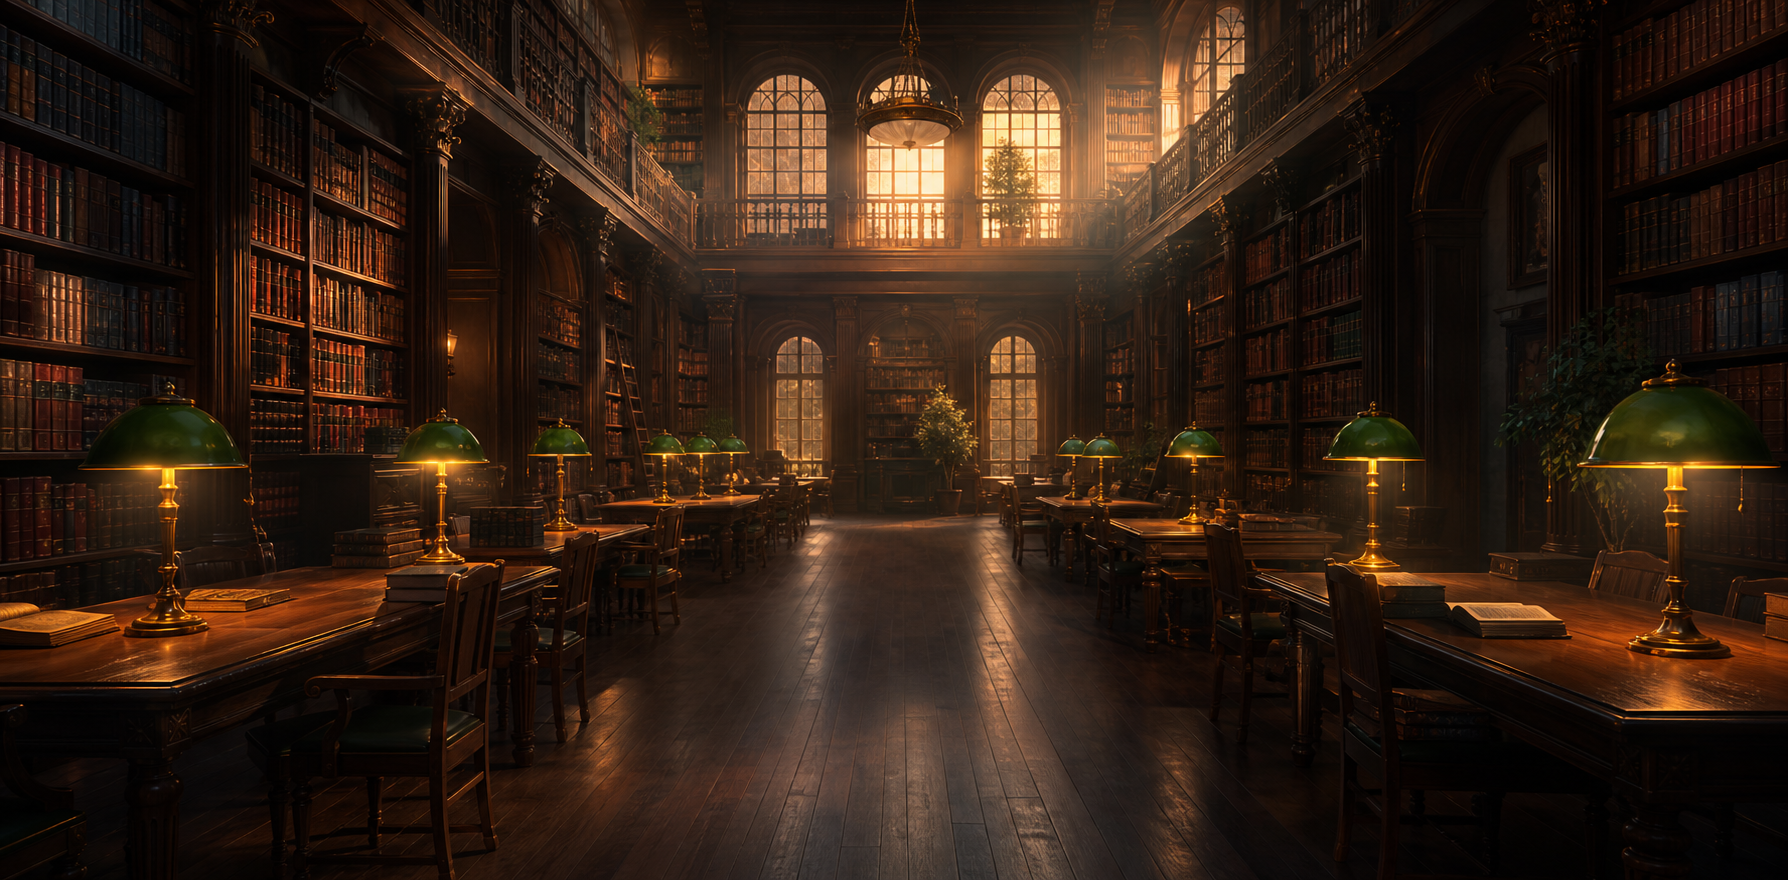
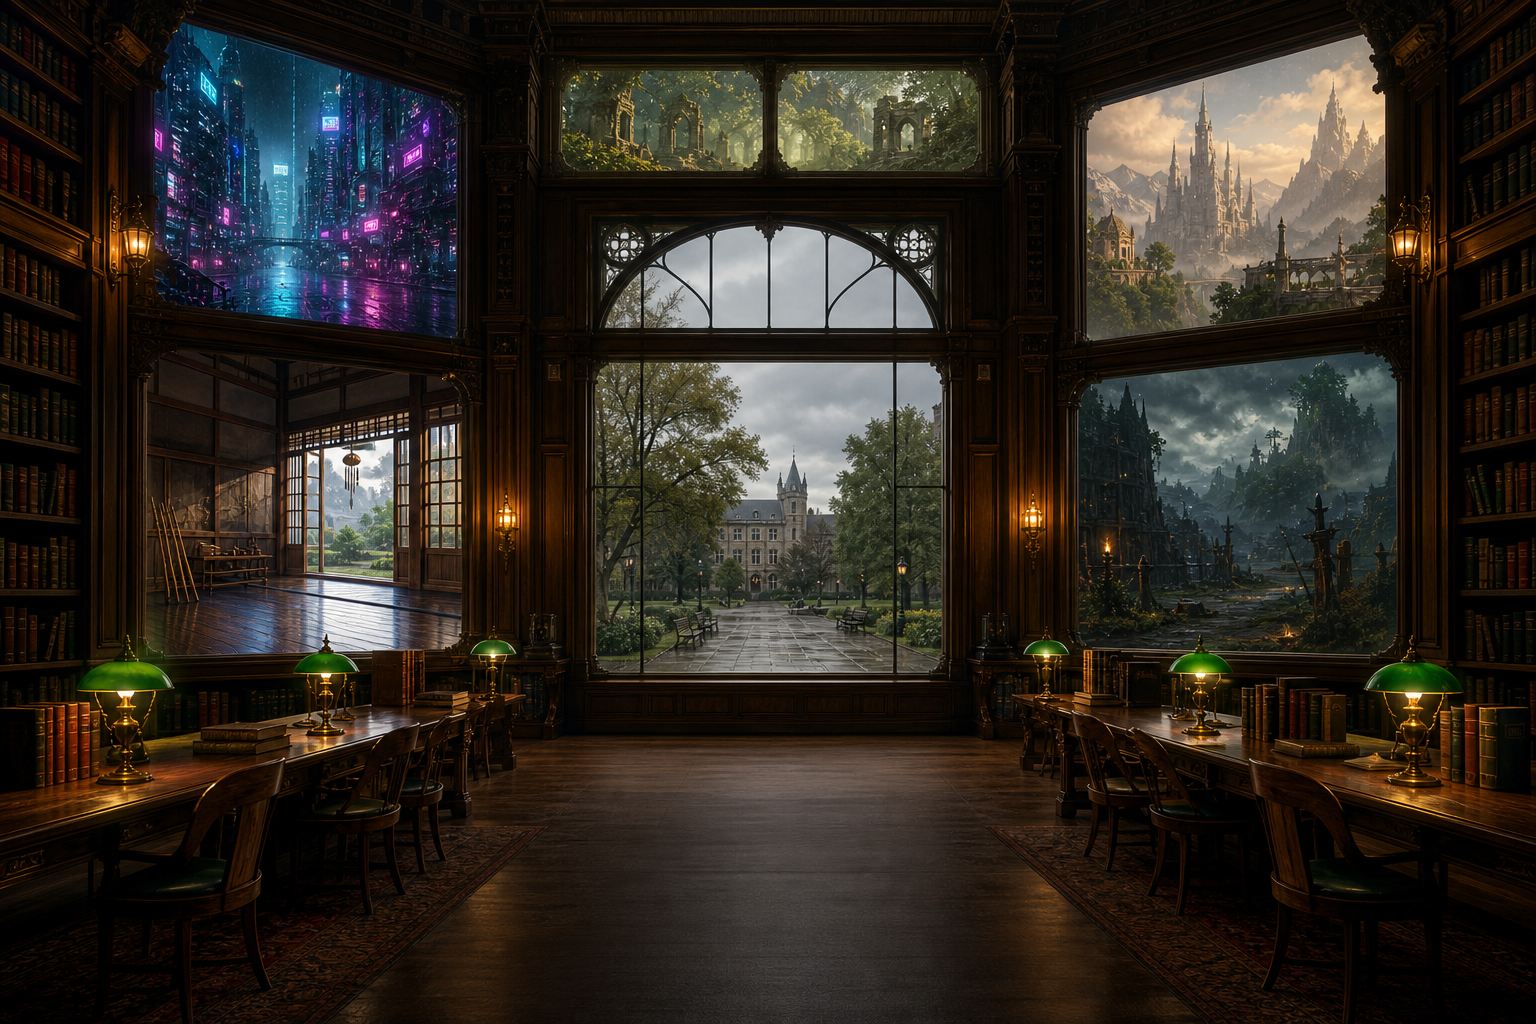
Add files via upload

diff --git a/library-white-noise/script.js b/library-white-noise/script.js
@@ -7,6 +7,7 @@ const state = {
   mode: "library",
   nodes: [],
   timers: [],
+  media: [],
 };
 
 const modeTitles = {
@@ -14,6 +15,7 @@ const modeTitles = {
   fantasy: "Epic Fantasy",
   cyberpunk: "Cyberpunk",
   witcher: "Monster Hunter",
+  dojo: "Kendo Dojo",
 };
 
 const playButton = document.querySelector("#playButton");
@@ -54,6 +56,25 @@ function connectGain(value) {
   gain.gain.value = value;
   gain.connect(state.master);
   return gain;
+}
+
+function updateMediaVolumes() {
+  const masterVolume = Number(volume.value);
+  state.media.forEach(({ audio, volume: localVolume }) => {
+    audio.volume = Math.min(1, masterVolume * localVolume);
+  });
+}
+
+function playMedia(src, { volume: localVolume = 1, loop = false, playbackRate = 1 } = {}) {
+  const audio = new Audio(src);
+  audio.loop = loop;
+  audio.playbackRate = playbackRate;
+  state.media.push({ audio, volume: localVolume });
+  updateMediaVolumes();
+  audio.play().catch(() => {
+    // Browsers may refuse audio if the play gesture is interrupted.
+  });
+  return audio;
 }
 
 function startNoise({ volume: gainValue, low = 350, high = 3800, playbackRate = 1 }) {
@@ -137,10 +158,8 @@ function scheduleRandom(fn, minMs, maxMs) {
 }
 
 function libraryMode() {
-  startNoise({ volume: 0.006, low: 45, high: 170, playbackRate: 0.35 });
-
   const air = addNode(state.context.createOscillator());
-  const airGain = connectGain(0.004);
+  const airGain = connectGain(0.003);
   air.type = "sine";
   air.frequency.value = 96;
   air.connect(airGain);
@@ -150,45 +169,18 @@ function libraryMode() {
     const swipes = Math.random() > 0.74 ? 2 : 1;
     for (let i = 0; i < swipes; i += 1) {
       window.setTimeout(() => {
-        noiseBurst({
-          duration: 0.16 + Math.random() * 0.26,
-          volume: 0.012 + Math.random() * 0.018,
-          low: 1250 + Math.random() * 600,
-          high: 2600 + Math.random() * 1300,
-          q: 0.8,
-          fadeIn: 0.025,
-          fadeOut: 0.18,
+        playMedia("assets/page-turn.mp3", {
+          volume: 0.12 + Math.random() * 0.08,
           playbackRate: 0.72 + Math.random() * 0.28,
         });
-      }, i * (220 + Math.random() * 170));
+      }, i * (520 + Math.random() * 420));
     }
   };
 
-  scheduleRandom(pageTurn, 2200, 7600);
-
-  scheduleRandom(() => {
-    noiseBurst({
-      duration: 0.18 + Math.random() * 0.16,
-      volume: 0.014,
-      low: 70,
-      high: 310,
-      fadeIn: 0.035,
-      fadeOut: 0.22,
-      playbackRate: 0.45 + Math.random() * 0.18,
-    });
-  }, 8500, 19000);
+  scheduleRandom(pageTurn, 3800, 12000);
 
   scheduleRandom(() => {
     chime(70 + Math.random() * 16, 0.16, 0.009, "triangle");
-    noiseBurst({
-      duration: 0.28 + Math.random() * 0.24,
-      volume: 0.01,
-      low: 115,
-      high: 620,
-      fadeIn: 0.04,
-      fadeOut: 0.26,
-      playbackRate: 0.52,
-    });
   }, 12000, 26000);
 
   scheduleRandom(() => {
@@ -220,58 +212,53 @@ function cyberpunkMode() {
 }
 
 function witcherMode() {
-  const root = 98;
-  const bass = addNode(state.context.createOscillator());
-  const bassGain = connectGain(0.038);
-  bass.type = "triangle";
-  bass.frequency.value = root / 2;
-  bass.connect(bassGain);
-  bass.start();
+  playMedia("assets/boss-fight.wav", { volume: 0.62, loop: true });
+}
 
-  const harmony = addNode(state.context.createOscillator());
-  const harmonyGain = connectGain(0.018);
-  harmony.type = "sine";
-  harmony.frequency.value = root * 1.5;
-  harmony.connect(harmonyGain);
-  harmony.start();
+function dojoMode() {
+  playMedia("assets/dojo-chimes.ogg", { volume: 0.18, loop: true });
 
-  const pattern = [196, 246.94, 293.66, 329.63, 293.66, 246.94, 220, 246.94];
-  const chords = [
-    [98, 146.83, 196],
-    [110, 164.81, 220],
-    [130.81, 196, 261.63],
-    [146.83, 220, 293.66],
-  ];
-  let step = 0;
+  const wind = addNode(state.context.createOscillator());
+  const windGain = connectGain(0.004);
+  wind.type = "sine";
+  wind.frequency.value = 72;
+  wind.connect(windGain);
+  wind.start();
 
-  addTimer(window.setInterval(() => {
-    const beat = step % 8;
-    const note = pattern[beat];
-    const chord = chords[Math.floor(step / 8) % chords.length];
+  const kiai = () => {
+    const calls = [
+      [196, 246.94],
+      [174.61, 220],
+      [146.83, 196],
+    ];
+    const call = calls[Math.floor(Math.random() * calls.length)];
+    chime(call[0], 0.22, 0.03, "triangle");
+    window.setTimeout(() => chime(call[1], 0.18, 0.022, "sine"), 80);
+  };
 
-    if (beat === 0 || beat === 4) {
-      chime(chord[0] / 2, 0.2, 0.09, "triangle");
+  const cutSequence = () => {
+    const count = 2 + Math.floor(Math.random() * 4);
+    for (let i = 0; i < count; i += 1) {
+      window.setTimeout(() => {
+        playMedia(Math.random() > 0.45 ? "assets/dojo-clack.wav" : "assets/dojo-cut.wav", {
+          volume: 0.18 + Math.random() * 0.14,
+          playbackRate: 0.82 + Math.random() * 0.34,
+        });
+      }, i * (420 + Math.random() * 260));
     }
-
-    chime(note, 0.22, beat % 2 === 0 ? 0.048 : 0.035, "triangle");
-    if (beat === 1 || beat === 5) {
-      chime(chord[1], 0.34, 0.03, "sine");
-      chime(chord[2], 0.34, 0.024, "sine");
+    if (Math.random() > 0.62) {
+      window.setTimeout(kiai, 180 + Math.random() * 500);
     }
+  };
 
-    if (beat === 7) {
-      window.setTimeout(() => chime(note * 1.5, 0.16, 0.042, "triangle"), 105);
-    }
-
-    step += 1;
-  }, 245));
+  scheduleRandom(cutSequence, 2200, 7800);
 
   scheduleRandom(() => {
-    const run = [392, 440, 493.88, 587.33, 659.25];
-    run.forEach((note, index) => {
-      window.setTimeout(() => chime(note, 0.14, 0.034, "triangle"), index * 95);
+    playMedia("assets/bell-ding.wav", {
+      volume: 0.035,
+      playbackRate: 0.7 + Math.random() * 0.35,
     });
-  }, 5200, 9400);
+  }, 14000, 32000);
 }
 
 function clearSound() {
@@ -289,6 +276,11 @@ function clearSound() {
     }
   });
   state.nodes = [];
+  state.media.forEach(({ audio }) => {
+    audio.pause();
+    audio.currentTime = 0;
+  });
+  state.media = [];
 }
 
 function startMode() {
@@ -298,6 +290,7 @@ function startMode() {
     fantasy: fantasyMode,
     cyberpunk: cyberpunkMode,
     witcher: witcherMode,
+    dojo: dojoMode,
   };
   modes[state.mode]();
 }
@@ -326,6 +319,7 @@ volume.addEventListener("input", () => {
   if (state.master) {
     state.master.gain.value = Number(volume.value);
   }
+  updateMediaVolumes();
 });
 
 modeButtons.forEach((button) => {

diff --git a/library-white-noise/index.html b/library-white-noise/index.html
@@ -40,7 +40,11 @@
               </button>
               <button class="mode" data-mode="witcher">
                 <span>Monster Hunter</span>
-                <small>tavern drone, plucked strings</small>
+                <small>orchestral boss fight loop</small>
+              </button>
+              <button class="mode" data-mode="dojo">
+                <span>Kendo Dojo</span>
+                <small>shinai cuts, footwork, wind chimes</small>
               </button>
             </div>
 

diff --git a/library-white-noise/styles.css b/library-white-noise/styles.css
@@ -149,7 +149,7 @@ body.playing .status-light {
 
 .modes {
   display: grid;
-  grid-template-columns: repeat(4, minmax(0, 1fr));
+  grid-template-columns: repeat(5, minmax(0, 1fr));
   gap: 10px;
 }
 

diff --git a/library-white-noise/README.md b/library-white-noise/README.md
@@ -15,3 +15,11 @@ Open `index.html` in a browser, or serve the folder with any static server.
 5. Select `main` and `/root`, then save.
 
 The page is fully static and does not need a build step.
+
+## Audio Credits
+
+- Page turn: BigSoundBank / LaSonotheque, `Turned Page`, CC0.
+- Boss fight: Emma_MA, `Determined Pursuit`, OpenGameArt, CC0.
+- Dojo melee sounds: remaxim, `3 Melee sounds`, OpenGameArt, CC0.
+- Dojo wind chimes: pmiller, `Wind Chimes`, OpenGameArt, CC0.
+- Dojo bell: PWL, `Bell dings/chimes`, OpenGameArt, CC0.